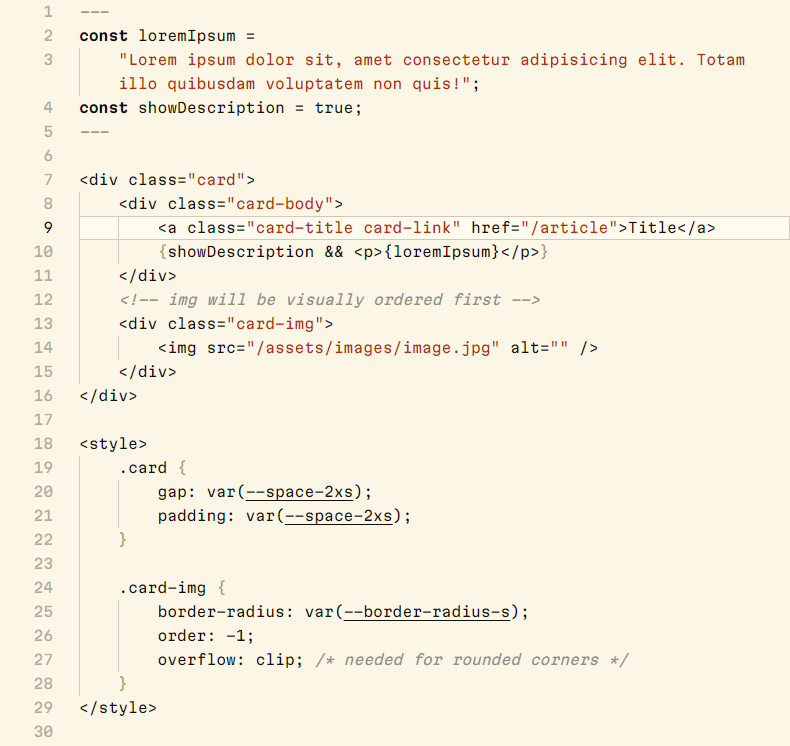
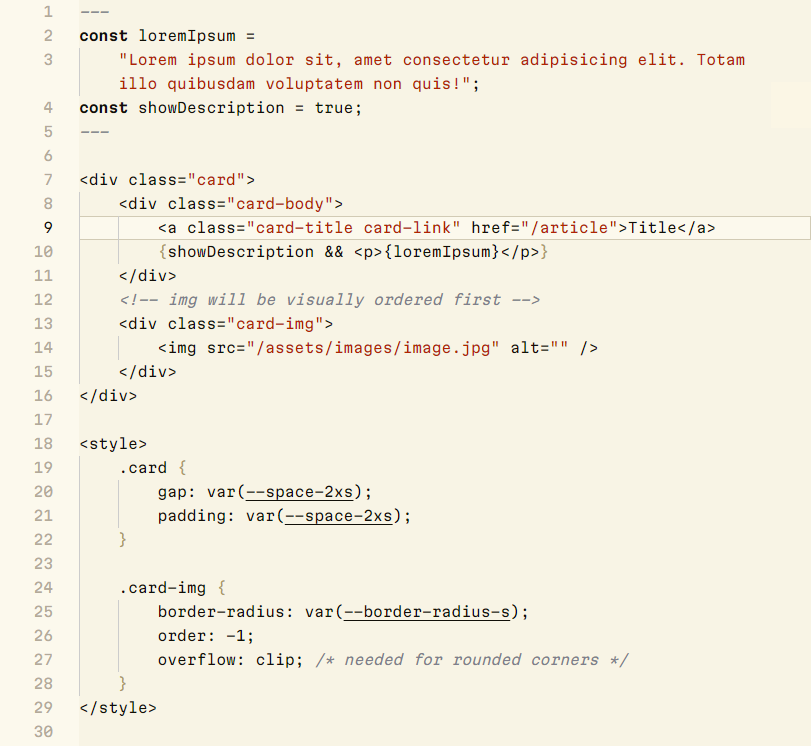
color adjustments

diff --git a/README.md b/README.md
@@ -7,12 +7,12 @@ High-contrast light theme for [Visual Studio Code](https://code.visualstudio.com
 ### Solarized High Contrast Light
 A monochrome palette with a single accent color for highlighting strings.
 
-![HTML and CSS code displayed in a monochrome syntax highlighting palette. The burnt orange coloring of the strings stand out in contrast to the neutral blacks and grays in which everything else is colored.](images/preview_monochrome_syntax_1.0.0.png)
+![Code almost entirely devoid of syntax coloring, consisting of only neutral blacks and grays, save for a burnt orange accent given to the strings.](images/preview_monochrome_syntax_1.0.0.png)
 
 ### Solarized High Contrast Light+ 
 A three-color palette featuring distinct colors for strings, comments, and constants.
 
-![HTML and CSS code displayed in a three-color syntax highlighting palette. Strings are colored in blue, comments are colored in red, and constants are colored in green.](images/preview_trichrome_syntax_1.0.0.png)
+![Code rendered in a three-color palette. Strings are colored in indigo, comments in maroon, and constants in green.](images/preview_trichrome_syntax_1.0.0.png)
 
 ## Installation
 1. Install theme from the [Marketplace](https://marketplace.visualstudio.com/items?itemName=tiny.solarized-high-contrast-light)

diff --git a/CHANGELOG.md b/CHANGELOG.md
@@ -5,11 +5,15 @@ Check [Keep a Changelog](http://keepachangelog.com/) for recommendations on how 
 
 ## Unreleased
 ### Added
-- New theme with 3-color syntax highlighting palette
+- **New theme with 3-color syntax highlighting palette**
+- Editor gutter background color
 
 ### Changed
+- Comments have increased contrast (55.6 Lc → 60.3 Lc)
 - CSS variables are underlined instead of italicized
+- Invalid syntax is bolded and italicized
 - Text and interface colors have been adjusted to a warmer hue
+- Titlebar is darker
 
 ## 0.4.0 - 2023-01-12
 ### Added
